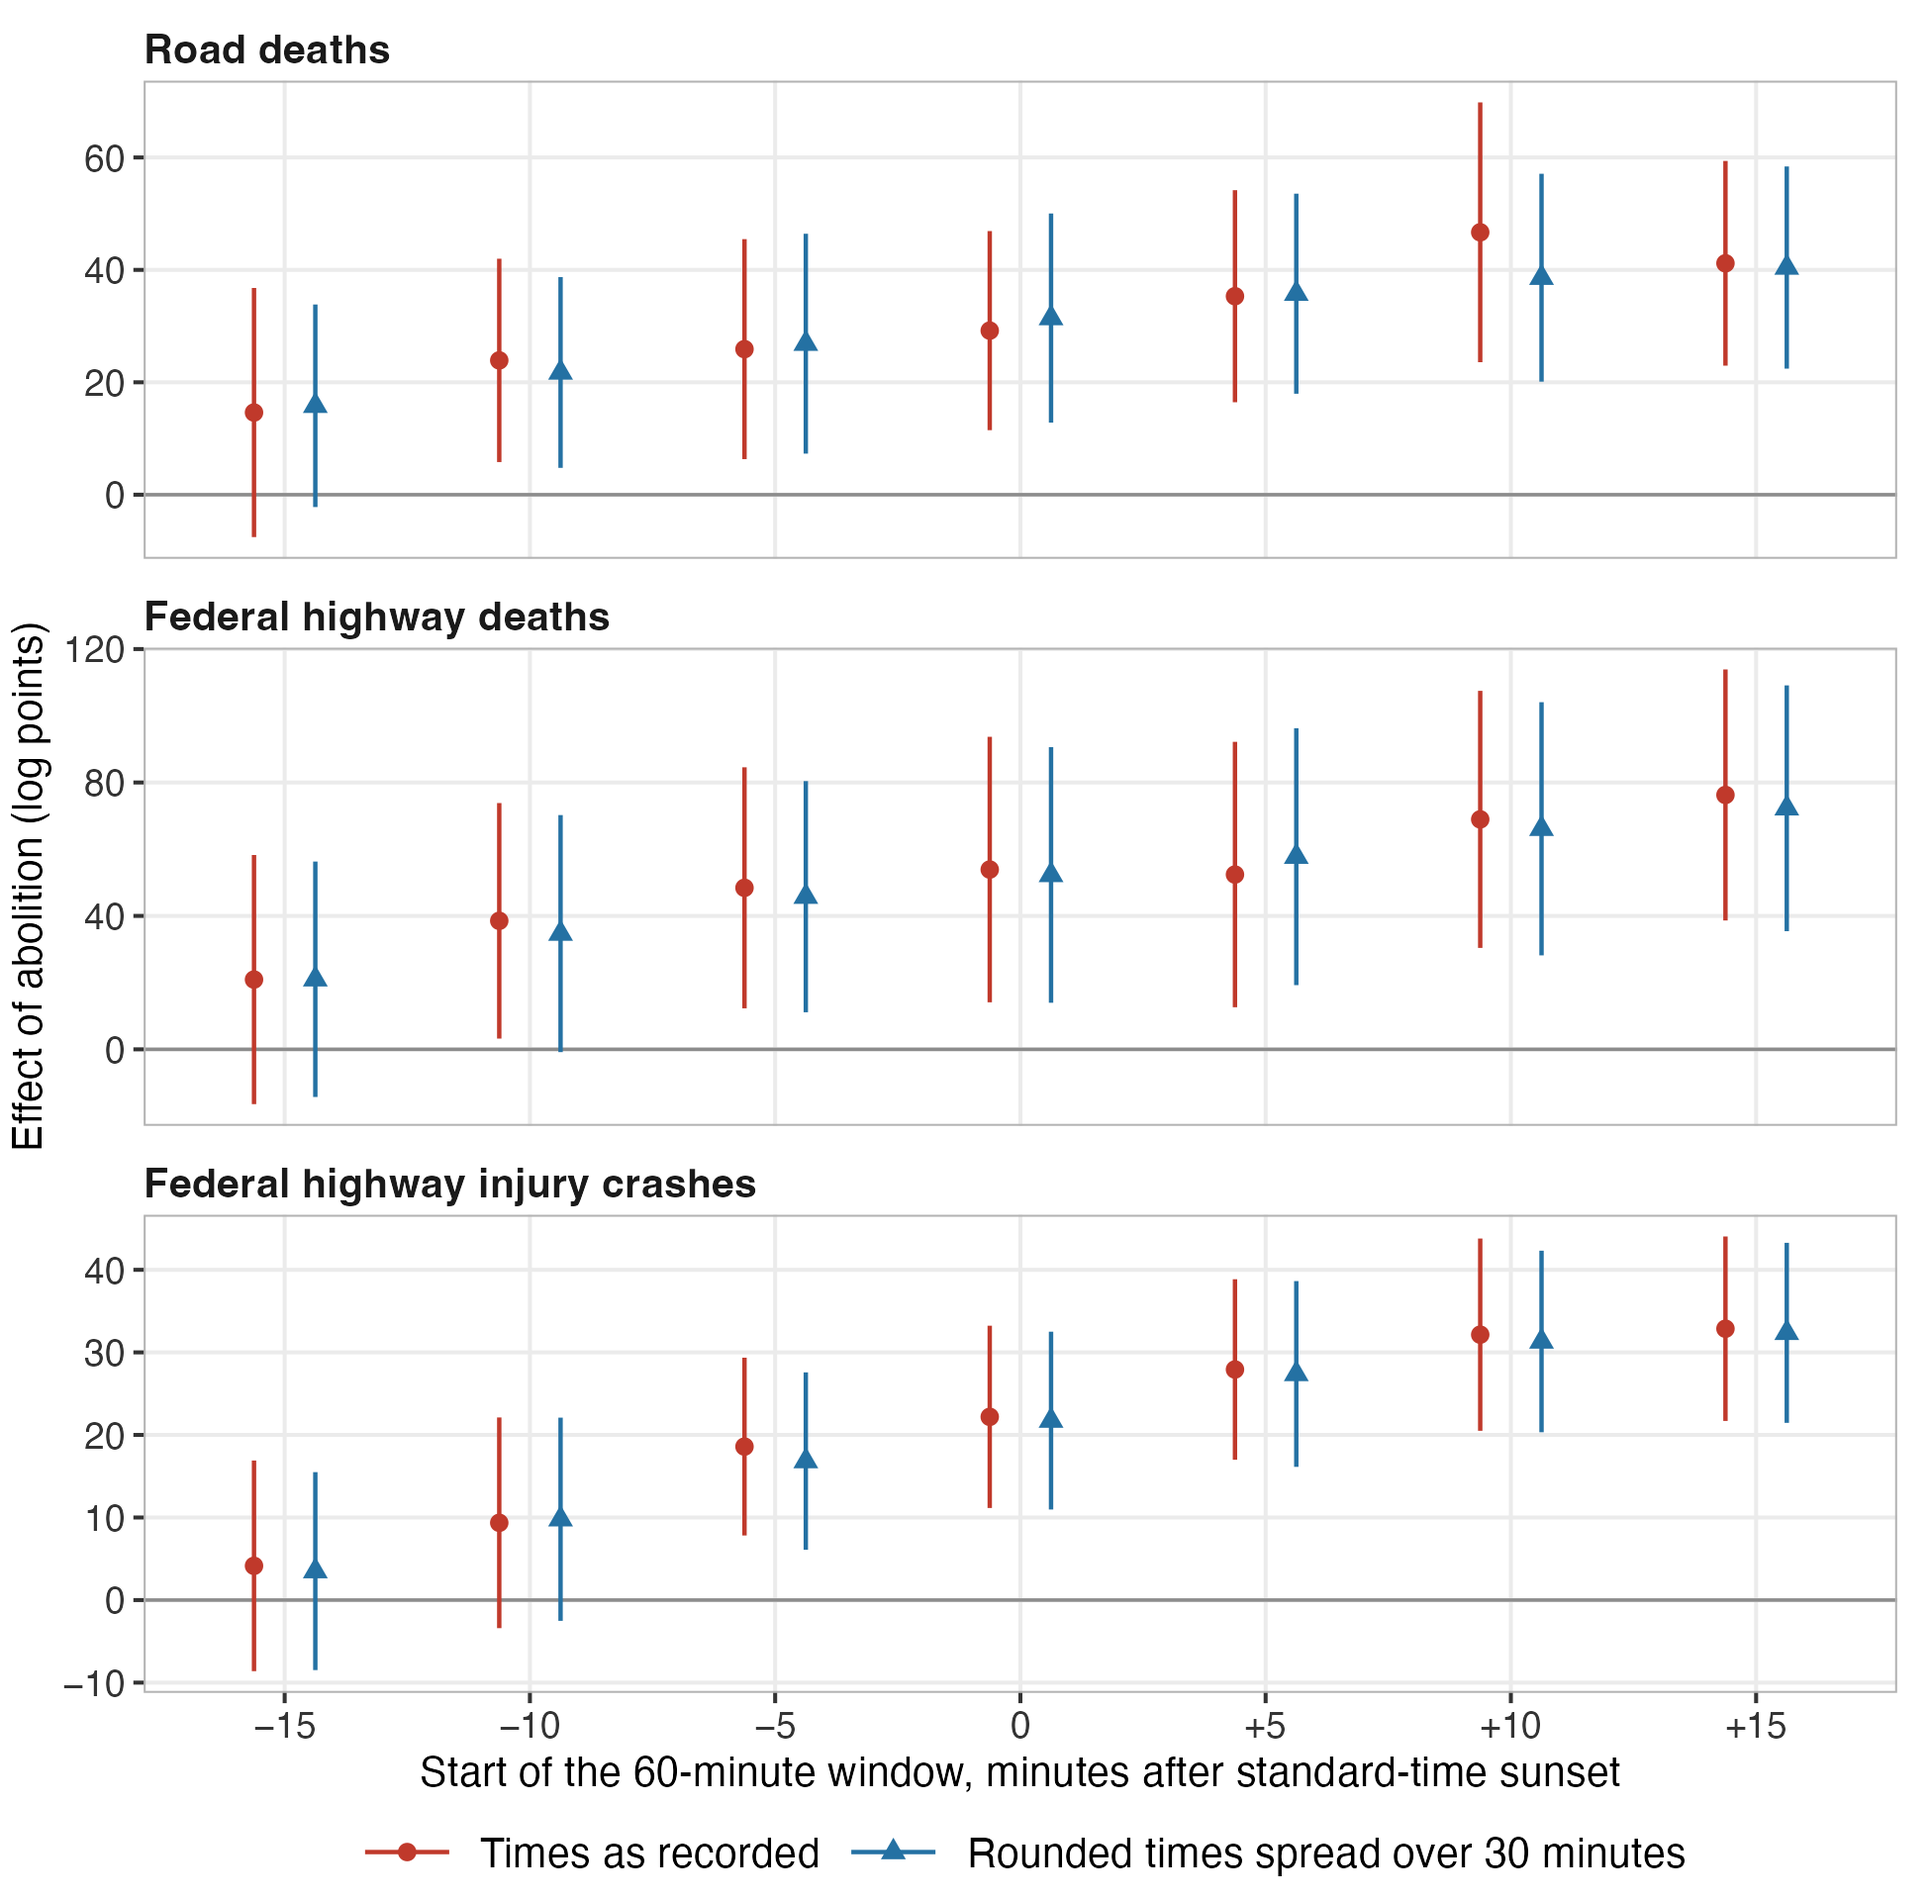
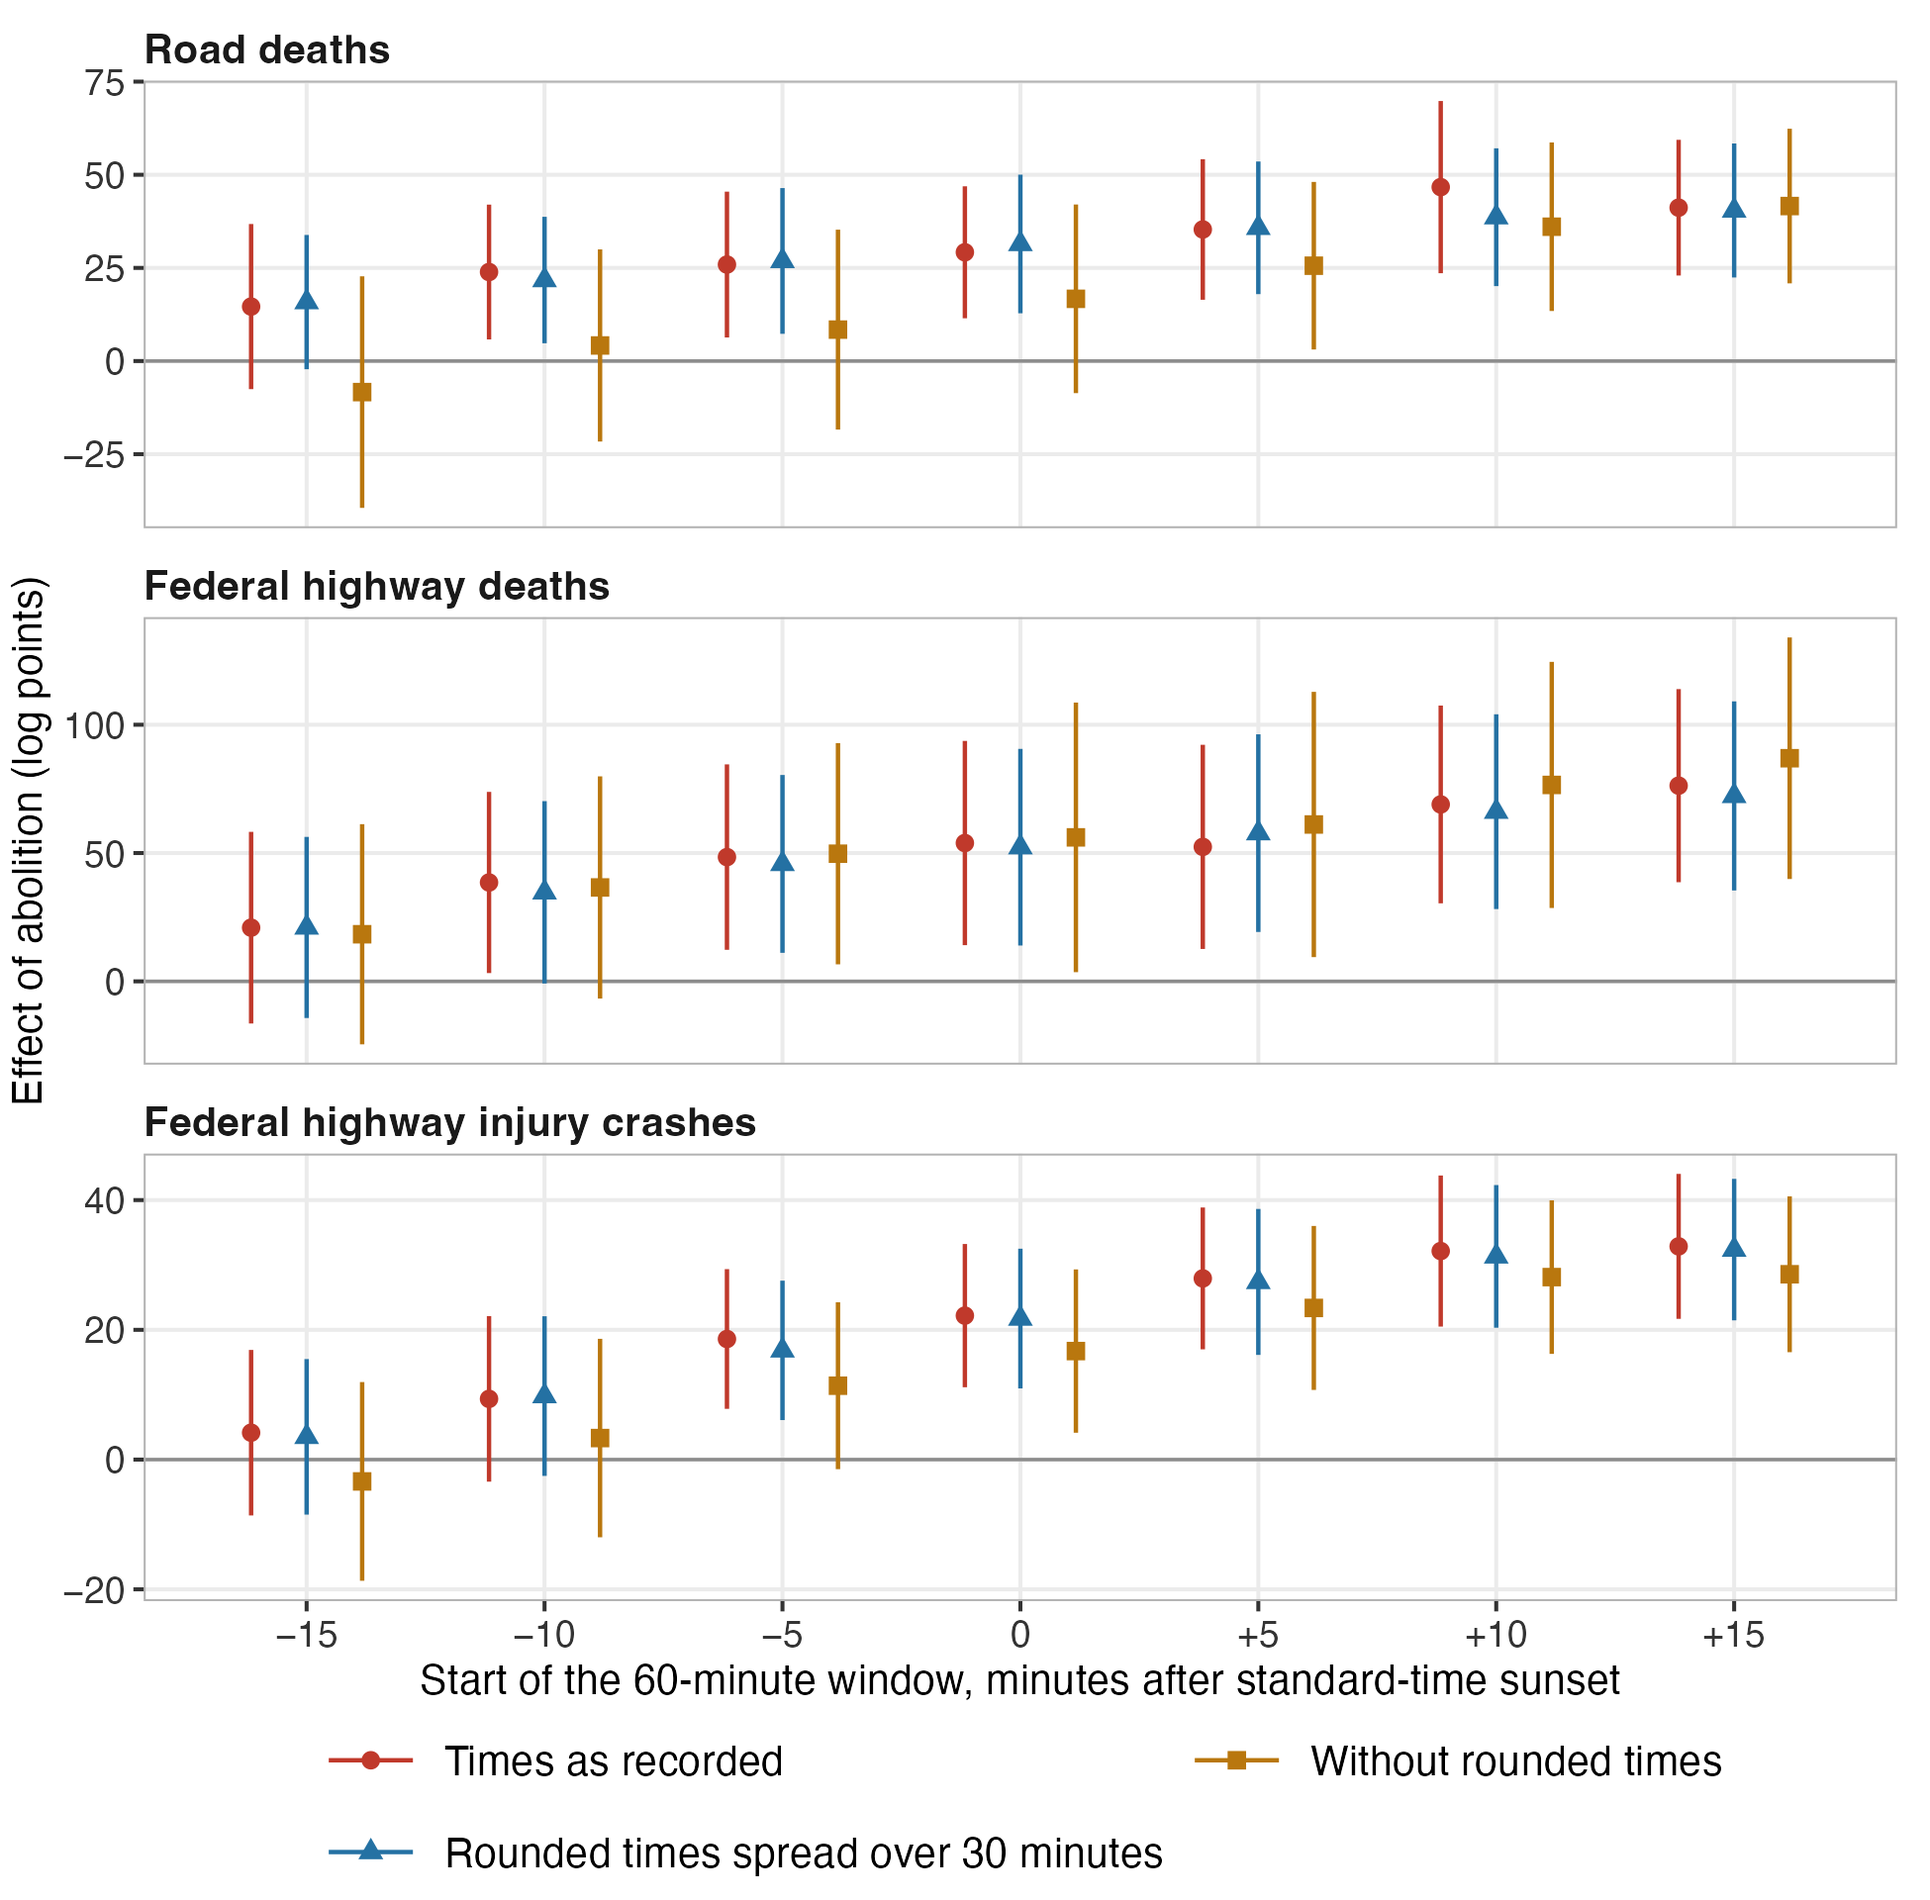
Show the window shifts without rounded times in Figure B1
Figure B1 gains a third series that drops deaths and crashes recorded on
the hour or half hour at every window shift, so the rise from -8.3 (15.9)
to 41.6 (10.6) for road deaths that Appendix B.1 reports is now shown in
an exhibit. The figure note defines the series and the legend wraps to
two rows. Restore the missing space after "half the deaths." and drop the
repeated "with less than half the deaths in hour 0". The post-MPRA change
log records the new figure, note and paragraph.

diff --git a/latex/sections/appendix_body.tex b/latex/sections/appendix_body.tex
@@ -82,7 +82,7 @@ The coastal municipalities are the 279 that IBGE lists as facing the sea in 2022
   \caption{The Hour after Sunset, Moved Earlier and Later}
   \label{fig:window-shift}
   \begin{figurenotes}[Notes]
-  Each point is equation~(\ref{eq:main}) for a 60-minute window that starts the stated number of minutes after standard-time sunset; 0 is hour 0 of Table~\ref{tab:main}. Rounded times spread over 30 minutes: each event recorded on the hour or half hour counts in the window in proportion to the part of the 30 minutes around its recorded time that falls inside it. 95 percent confidence intervals, standard errors clustered by state.
+  Each point is equation~(\ref{eq:main}) for a 60-minute window that starts the stated number of minutes after standard-time sunset; 0 is hour 0 of Table~\ref{tab:main}. Rounded times spread over 30 minutes: each event recorded on the hour or half hour counts in the window in proportion to the part of the 30 minutes around its recorded time that falls inside it. Without rounded times: events recorded on the hour or half hour are dropped. 95 percent confidence intervals, standard errors clustered by state.
   \end{figurenotes}
   \begin{figurenotes}[Sources]
   \citet{datasus2025sim}; \citet{prf2025dados}.
@@ -144,7 +144,7 @@ The coastal municipalities are the 279 that IBGE lists as facing the sea in 2022
 
 If travel for the year-end holidays explained why no increase in deaths is detectable from December 24 to January 15, traffic in hour 0, or its mix, should have changed differently in those weeks. On federal highways, we find no detectable difference (Table~\ref{tab:traffic-parts}). After abolition, vehicles in hour 0 fell by 5.3 log points (1.8) in the school weeks and by 7.4 (3.2) from December 24 to January 15, a difference of 2.1 (2.4). Trucks and buses in hour 0 and the vehicles of the whole day show no detectable difference either. The counts cover only federal highways, so travel on other roads remains a possible explanation. % traffic_volume.rds, parts.
 
-Moving the window changes the estimate in the direction light predicts. A window that starts 15 minutes before standard-time sunset includes minutes that were light in both regimes and yields 14.6 log points for road deaths, and one that starts 15 minutes after it is darker throughout and gives 41.2 (Figure~\ref{fig:window-shift}). With times as recorded, the estimate for road deaths does not rise at every step: it is 46.7 for a window that starts 10 minutes after standard-time sunset, above the 41.2 at 15 minutes. Each shift also moves heaps of times recorded on the hour or half hour into or out of the window. When those times are spread evenly over the 30 minutes around them, the estimate rises at every step for all three outcomes, from 15.8 (9.2) to 40.4 (9.2) for road deaths. Spreading smooths the counts across the window by construction, so the rise could partly come from the correction itself. Dropping the rounded times instead assumes nothing about where they fell, and the estimate still rises at every step for all three outcomes, from $-8.3$ (15.9) to 41.6 (10.6) for road deaths, with less than half the deaths.In hour 0 itself, spreading the rounded times moves the estimate to 31.4 (9.5), and dropping them gives 16.7 (12.9), with less than half the deaths in hour 0 (Table~\ref{tab:measurement}). Leaving out one state at a time keeps the estimate for road deaths between 24.3 (without S\~ao Paulo) and 34.1 (without Minas Gerais), and one season at a time between 22.7 (without 2019/20) and 35.2 (without 2022/23) (Figure~\ref{fig:leave-out}). With the Northeast alone as the control group the estimate is 32.9 (9.2); with the four states of the North alone, 15.7 (8.8). Dropping the three La Ni\~na summers of 2020/21 to 2022/23 gives 43.5 (9.5), dropping Carnival and the year-end holidays 30.8 (8.0), and dropping the 279 coastal municipalities, the destinations of summer beach trips, 36.3 (9.4) (Table~\ref{tab:sensitivity}).
+Moving the window changes the estimate in the direction light predicts. A window that starts 15 minutes before standard-time sunset includes minutes that were light in both regimes and yields 14.6 log points for road deaths, and one that starts 15 minutes after it is darker throughout and gives 41.2 (Figure~\ref{fig:window-shift}). With times as recorded, the estimate for road deaths does not rise at every step: it is 46.7 for a window that starts 10 minutes after standard-time sunset, above the 41.2 at 15 minutes. Each shift also moves heaps of times recorded on the hour or half hour into or out of the window. When those times are spread evenly over the 30 minutes around them, the estimate rises at every step for all three outcomes, from 15.8 (9.2) to 40.4 (9.2) for road deaths. Spreading smooths the counts across the window by construction, so the rise could partly come from the correction itself. Dropping the rounded times instead assumes nothing about where they fell, and the estimate still rises at every step for all three outcomes, from $-8.3$ (15.9) to 41.6 (10.6) for road deaths, with less than half the deaths. In hour 0 itself, spreading the rounded times moves the estimate to 31.4 (9.5), and dropping them gives 16.7 (12.9) (Table~\ref{tab:measurement}). Leaving out one state at a time keeps the estimate for road deaths between 24.3 (without S\~ao Paulo) and 34.1 (without Minas Gerais), and one season at a time between 22.7 (without 2019/20) and 35.2 (without 2022/23) (Figure~\ref{fig:leave-out}). With the Northeast alone as the control group the estimate is 32.9 (9.2); with the four states of the North alone, 15.7 (8.8). Dropping the three La Ni\~na summers of 2020/21 to 2022/23 gives 43.5 (9.5), dropping Carnival and the year-end holidays 30.8 (8.0), and dropping the 279 coastal municipalities, the destinations of summer beach trips, 36.3 (9.4) (Table~\ref{tab:sensitivity}).
 
 In the calendars of the state public school systems we found, classes ran from November 15 to at least December 7 and did not run from December 24 to January 15. The latest end was December 23 and the earliest return January 16, in Goi\'as, the one state system that returns in January; elsewhere classes resume in February \citep{saopaulo2018resolucao, goias2018parecer, minas2023ano}. The exception is Par\'a, a control state, whose 2019 school year ran from March 11, 2019, to January 30, 2020 \citep{para2018calendario}. Municipal and private schools set their own calendars within the 200 school days the law requires, and can differ by a few days; in Goi\'as, private schools proposed ending the 2019 year on December 11 or 14 \citep{goias2018parecer}.
 

diff --git a/horario_verao/mudancas_pos_MPRA.md b/horario_verao/mudancas_pos_MPRA.md
@@ -602,8 +602,9 @@ construção descritas.
 
 ### B.1 Other windows, samples, and clocks — Figura B1, nota e parágrafo
 
-**Figura B1:** passa a ter duas séries por deslocamento, "Times as recorded" e
-"Rounded times spread over 30 minutes" (o mesmo nome da linha da Tabela B1).
+**Figura B1:** passa a ter três séries por deslocamento, "Times as recorded",
+"Rounded times spread over 30 minutes" e "Without rounded times" (os mesmos
+nomes das linhas da Tabela B1).
 
 **Nota da Figura B1, Antes:**
 > Each point is equation~(\ref{eq:main}) for a 60-minute window that starts the
@@ -615,8 +616,8 @@ construção descritas.
 > […] 0 is hour 0 of Table~\ref{tab:main}. Rounded times spread over 30
 > minutes: each event recorded on the hour or half hour counts in the window in
 > proportion to the part of the 30 minutes around its recorded time that falls
-> inside it. 95 percent confidence intervals, standard errors clustered by
-> state.
+> inside it. Without rounded times: events recorded on the hour or half hour are
+> dropped. 95 percent confidence intervals, standard errors clustered by state.
 
 **Parágrafo, Antes:**
 > Moving the window changes the estimate in the direction light predicts: a
@@ -632,22 +633,29 @@ construção descritas.
 > window that starts 15 minutes before standard-time sunset includes minutes
 > that were light in both regimes and yields 14.6 log points for road deaths,
 > and one that starts 15 minutes after it is darker throughout and gives 41.2
-> (Figure~\ref{fig:window-shift}). With times as recorded, the estimate for
-> road deaths does not rise at every step: it is 46.7 for a window that starts
-> 10 minutes after standard-time sunset, above the 41.2 at 15 minutes. Each
-> shift also moves heaps of times recorded on the hour or half hour into or out
-> of the window. When those times are spread evenly over the 30 minutes around
-> them, the estimate rises at every step for all three outcomes, from 15.8 (9.2)
-> to 40.4 (9.2) for road deaths. In hour 0 itself, spreading the rounded times
-> moves the estimate to 31.4 (9.5), and dropping them gives 16.7 (12.9), with
-> less than half the deaths in hour 0 (Table~\ref{tab:measurement}).
+> (Figure~\ref{fig:window-shift}). With times as recorded, the estimate for road
+> deaths does not rise at every step: it is 46.7 for a window that starts 10
+> minutes after standard-time sunset, above the 41.2 at 15 minutes. Each shift
+> also moves heaps of times recorded on the hour or half hour into or out of the
+> window. When those times are spread evenly over the 30 minutes around them,
+> the estimate rises at every step for all three outcomes, from 15.8 (9.2) to
+> 40.4 (9.2) for road deaths. Spreading smooths the counts across the window by
+> construction, so the rise could partly come from the correction itself.
+> Dropping the rounded times instead assumes nothing about where they fell, and
+> the estimate still rises at every step for all three outcomes, from $-8.3$
+> (15.9) to 41.6 (10.6) for road deaths, with less than half the deaths. In hour
+> 0 itself, spreading the rounded times moves the estimate to 31.4 (9.5), and
+> dropping them gives 16.7 (12.9) (Table~\ref{tab:measurement}).
 
 **Por quê:** o mesmo comentário da Seção IV.C. O apêndice mostra o pico em +10
 com os horários como registrados, em vez de deixá-lo para o parecerista, e diz
 que ele some quando o arredondamento é separado do deslocamento. A frase da
 janela a −15 fica: ela já explica que esses minutos estavam claros nos dois
 regimes, então um efeito menor ali é o que a luz prevê, e não sinal de que o
-resultado depende da escolha da janela.
+resultado depende da escolha da janela. Espalhar os horários redondos suaviza
+a contagem por construção; descartá-los não supõe nada sobre onde caíram, e a
+estimativa também sobe a cada passo nos três desfechos (mortes na via de −8,3
+a 41,6), agora visível na Figura B1 em vez de só citada no texto.
 
 ### B.1 Other windows, samples, and clocks — nota da Tabela B2
 
